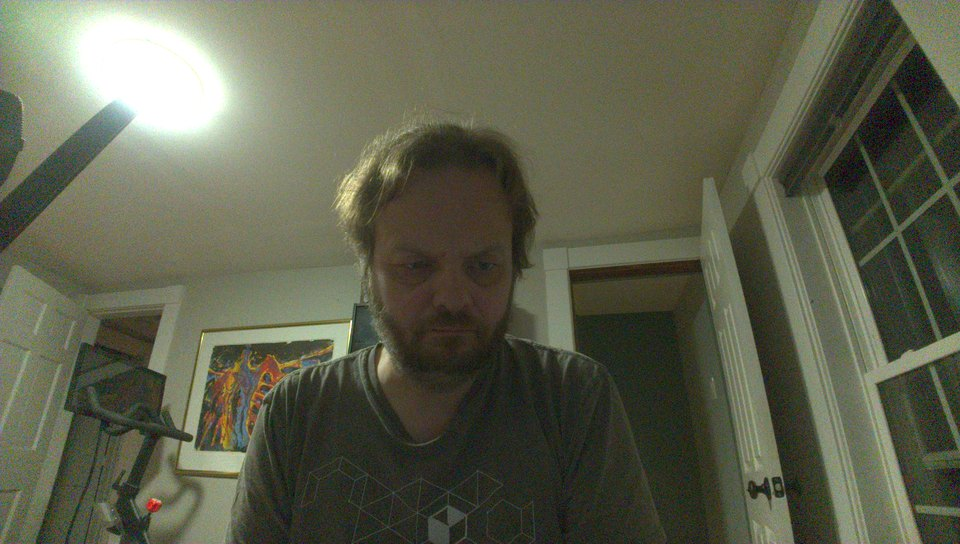
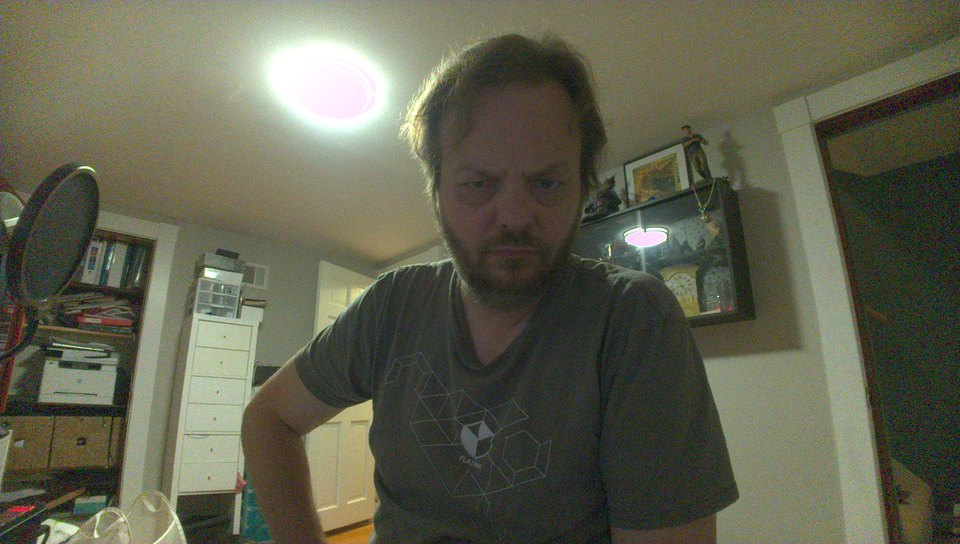
docs: Replace the before/after with a controlled, converged pair
The previous before/after was captured at 70 frames. That is enough in a
bright room but far too short in a dim one: AGC walks exposure and gain in
10% steps per frame, so the fixed stack was still at 1.07x analogue gain on
its way to 16x. It measured 2.9x darker and B/G 0.534 rather than 0.823.

Recaptured both sides at 400 frames with convergence confirmed from the IPA
logs, on a genuinely stock kernel with stock libcamera reinstalled rather
than simulated, same seat and lamps, laptop not moved. Frame alignment
verified by cross-correlation on a structured background region (0.906).

  stock   R/G 0.890  B/G 0.672  frame luma 31.1
  fixed   R/G 1.047  B/G 0.823  frame luma 90.9
  USB ref R/G 1.052  B/G 0.989

AWB gains in that scene were 1.098/1.220 stock against 1.387/2.260 fixed,
showing defect 5 directly.

Also records two things the recapture turned up:

- The remaining blue deficit is a grey-world AWB limitation, and the colour
  matrix amplifies rather than causes it: blue measures 0.910 with the
  matrix off and 0.823 with it on, against 0.838 predicted from the 3615K
  blue row.
- libcamera leaves vertical blanking at its 220-line minimum, pinning
  exposure at 1290 lines. The kernel is correct here; userspace never
  trades frame rate for exposure. Documented, not fixed.

diff --git a/docs/index.html b/docs/index.html
@@ -95,12 +95,19 @@
 produced at that point &mdash; including the middle one, where the fixes were half in and the
 result was briefly worse in one respect than where it started.</p>
 
+<p class="lede">The first and last images are a controlled pair: same seat, same lamps, laptop
+not moved between them, and the stock side recaptured on a stock kernel with stock libcamera
+reinstalled rather than simulated. Both were held for 400 frames so that auto-exposure and
+auto white balance had fully settled &mdash; in a room this dim they need roughly 250, and a
+shorter capture flatters whichever side is measured first.</p>
+
 <div class="trio">
   <figure>
     <div class="lbl">1 &mdash; Stock Fedora 44</div>
     <img src="images/stage1-stock.jpg" alt="Stock camera output: flat, desaturated, dark corners">
-    <figcaption>Flat and desaturated, with visibly dark corners. Captured through the
-    unmodified libcamera 0.7.1 software ISP.</figcaption>
+    <figcaption>Dark, green-cast and falling away badly at the corners. Stock kernel, stock
+    libcamera 0.7.1. Auto-exposure is pinned against both its limits here and still cannot
+    reach its own brightness target.</figcaption>
   </figure>
   <figure>
     <div class="lbl mid">2 &mdash; Lens shading in, AWB still broken</div>
@@ -112,8 +119,9 @@ result was briefly worse in one respect than where it started.</p>
   <figure>
     <div class="lbl after">3 &mdash; All five fixes</div>
     <img src="images/stage3-final.jpg" alt="Final output: neutral colour, even illumination">
-    <figcaption>Even illumination and neutral colour. Red/green measures 1.001 against a USB
-    webcam reference of 0.99.</figcaption>
+    <figcaption>Even illumination and neutral colour, at 2.9&times; the frame brightness of
+    the stock capture. Red/green measures 1.047 against a USB webcam reference of 1.052 on the
+    same scene. The visible grain is the sensor running at the full 16&times; gain.</figcaption>
   </figure>
 </div>
 
@@ -183,6 +191,16 @@ imx471 0-001a: The analogue crop rectangle has been defaulted to the active area
   software ISP</strong>, not just this one.</p>
 </div>
 
+<p>Measured on a flat painted ceiling, at identical coordinates in both frames, with a USB
+webcam on the same machine shooting the same room as the reference:</p>
+
+<table>
+  <tr><th>Low-light scene, both converged</th><th>R/G</th><th>B/G</th><th>Frame brightness</th></tr>
+  <tr><td>Stock</td><td class="num">0.890</td><td class="num">0.672</td><td class="num">31.1</td></tr>
+  <tr><td>All five fixes</td><td class="num win">1.047</td><td class="num">0.823</td><td class="num win">90.9</td></tr>
+  <tr><td>USB webcam reference</td><td class="num">1.052</td><td class="num">0.989</td><td>&mdash;</td></tr>
+</table>
+
 <h2>Lens shading, isolated</h2>
 <p>The same scene seconds apart, with lens shading correction off and on. Centre-to-corner
 falloff goes from 2.78&times; to 1.09&times;.</p>
@@ -199,8 +217,9 @@ falloff goes from 2.78&times; to 1.09&times;.</p>
 </div>
 
 <h2>Measured results</h2>
-<p>Channel ratios at the output, with a USB webcam on the same machine as a reference.
-1.000 is neutral.</p>
+<p>Channel ratios at the output in brighter light, with a USB webcam on the same machine as
+a reference. 1.000 is neutral. The vignetting column comes from the controlled flat-field pair
+above.</p>
 
 <table>
   <tr><th>Configuration</th><th>R/G</th><th>B/G</th><th>Vignetting</th></tr>
@@ -253,8 +272,22 @@ driver is byte-identical. <code>sudo dnf downgrade libcamera</code> reverts.</p>
 
 <h2>Honest notes</h2>
 <ul>
-  <li><strong>Blue is still about 10% short</strong> of the USB reference (0.870 against 0.97).
-  The cause is not yet identified.</li>
+  <li><strong>Blue is still short</strong> &mdash; about 17% in the low-light scene above
+  (0.823 against the reference's 0.989). The residue is a white balance limitation, not a
+  decoding error: libcamera's grey-world AWB assumes the scene averages to neutral, and this
+  room does not.</li>
+  <li><strong>The colour matrix makes that residue worse, and correctly so.</strong> Measured
+  on the same scene, blue sits at 0.910 with the matrix disabled and 0.823 with it enabled.
+  Feeding the measured input through the 3615K blue row predicts 0.838, which matches. A
+  saturation matrix amplifies whatever white balance error it is handed, so the remaining gain
+  is in AWB, not in the matrix.</li>
+  <li><strong>libcamera never trades frame rate for exposure.</strong> The sensor's vertical
+  blanking sits at its 220-line minimum, pinning exposure at 1290 lines &mdash; 18.8&nbsp;ms at
+  52.5&nbsp;fps. The kernel is not at fault: vblank ranges 220 to 64447 and raising it correctly
+  extends the exposure maximum, but libcamera's simple pipeline leaves it alone. In the scene
+  above, auto-exposure saturates at that ceiling <em>and</em> the full 16&times; analogue gain
+  and still lands roughly 4&times; below the USB reference, which is where the grain in the
+  final image comes from. Dropping to 30&nbsp;fps would buy about 0.8 of a stop. Not fixed here.</li>
   <li><strong>The colour matrices are validated mathematically, not colorimetrically.</strong>
   They preserve neutral exactly and behave as predicted on real captures, but no colour chart
   was used.</li>

diff --git a/findings/TESTING.md b/findings/TESTING.md
@@ -144,3 +144,44 @@ subdev state had persisted.
 Running libcamera once (`cam -c1 --capture=2`) configures it, after which raw
 v4l2 captures work. Kernel config was also compared: ours differs from stock in
 16 lines, all BTF/debuginfo and BUILD_SALT, nothing camera related.
+
+## Measurement trap: AGC/AWB need ~250 frames to settle in low light
+
+A 70-frame capture was used for the early before/after images. That is enough in
+a bright room and badly short in a dim one, because AGC walks exposure and gain
+in 10% steps per frame and AWB integrates alongside it. In the low-light test
+scene a 70-frame capture of the *fixed* stack caught analogue gain still at code
+66 (1.07x) on its way to 960 (16x), producing an image 2.9x darker than the same
+configuration converged, and a blue ratio of 0.534 against 0.823 converged. The
+unconverged frame read as a regression that did not exist.
+
+Stock converges faster than fixed, because its 800 cap (4.57x) is reached sooner
+— stock at 70 frames measured ceiling luma 46.2 against 50.7 converged, only 10%
+short. So the short recipe penalised the fixed side far more than the stock side,
+i.e. it understated the improvement rather than inflating it. Either way the
+comparison was not sound.
+
+Capture 400 frames and confirm convergence from the logs before measuring:
+
+    LIBCAMERA_LOG_LEVELS=IPASoftAwb:DEBUG,IPASoftExposure:DEBUG \
+      cam -c1 --capture=400 --file=out#.data
+
+AGC is settled when `exp`/`again` stop changing; AWB when `gain R/B` plateaus.
+In the low-light scene that was exp 1290 / again 960 with gains 1.387/2.260
+(fixed), against exp 1290 / again 800 with gains 1.098/1.220 (stock) — defect 5
+visible directly in the gain figures.
+
+## Measurement trap: whole-frame metrics need a fixed subject
+
+Centre-versus-corner luma is a vignetting proxy only while the subject does not
+move. A re-shoot with the subject re-centred put a dark head where the bright
+ceiling had been and read as "vignetting 0.92x" — corners brighter than centre —
+which was framing, not optics. Likewise a horizontal ceiling profile became
+meaningless once the ceiling lamp drifted into the sampled strip (3.22x at one
+sample point: that is the lamp, not shading).
+
+Measure a named flat surface at identical coordinates in both frames, and check
+the frames actually align first. Normalised cross-correlation on a *structured*
+background region is the cheap test: 0.906 on the cabinet/doorway strip confirmed
+the laptop had not moved. The same test on the featureless ceiling returned
+-0.063 and means nothing — there is no structure there to correlate.

diff --git a/README.md b/README.md
@@ -20,6 +20,14 @@ them, and the tooling used to find them.
 | 4 | libcamera, software ISP | no lens shading correction existed at all | corners ~2.7 stops down; vignetting 2.78x |
 | 5 | libcamera, software ISP | AWB statistics summed in the sensor's native bit depth while the black level subtracted from them was 8-bit | black under-subtracted 4x, pulling every white balance gain towards unity |
 
+A sixth issue is documented but **not fixed here**, and it is userspace, not
+the driver: libcamera leaves the sensor's vertical blanking at its 220-line
+minimum (52.5 fps), which pins exposure at 1290 lines / 18.8 ms. The kernel
+side is correct — vblank ranges 220..64447 and raising it properly extends
+`exposure_max` — but libcamera's simple pipeline never pulls that lever. In a
+dim room auto-exposure saturates at that ceiling *and* the full 16x gain and
+still falls ~4x short of a USB webcam. Dropping to 30 fps would buy ~0.8 stop.
+
 Fix 5 is **not IMX471 specific** — it affects every RAW10/RAW12 sensor using
 libcamera's software ISP.
 
@@ -28,12 +36,33 @@ libcamera's software ISP.
 Channel ratios at the output, against a USB webcam on the same machine as a
 reference. 1.000 is neutral.
 
+A controlled low-light pair — same seat, same lamps, laptop not moved, stock
+side recaptured on a stock kernel with stock libcamera reinstalled, both held
+400 frames so AGC and AWB fully settled. Measured on a flat painted ceiling at
+identical coordinates in both frames:
+
+| Configuration | R/G | B/G | frame brightness |
+|---------------|-----|-----|------------------|
+| stock | 0.890 | 0.672 | 31.1 |
+| all five fixes | **1.047** | 0.823 | **90.9** |
+| USB webcam reference | 1.052 | 0.989 | — |
+
+Measured AWB gains in that scene were `1.098 / 1.220` stock against
+`1.387 / 2.260` fixed — fix 5 visible directly.
+
+In brighter light, with the vignetting column from the controlled flat-field pair:
+
 | Configuration | R/G | B/G | vignetting |
 |---------------|-----|-----|-----------|
 | stock | 0.871 | 0.667 | 2.78x |
 | + lens shading | 0.974 | 0.855 | **1.09x** |
 | + AWB fix and colour matrix | **1.001** | **0.870** | 1.09x |
 | USB webcam reference | 0.99 | 0.97 | — |
+
+Blue remains ~17% short in low light. That residue is a grey-world AWB
+limitation, and the colour matrix amplifies it rather than causing it: blue
+measures 0.910 with the matrix disabled and 0.823 with it enabled, against
+0.838 predicted from the 3615K blue row.
 
 ## Layout
 
